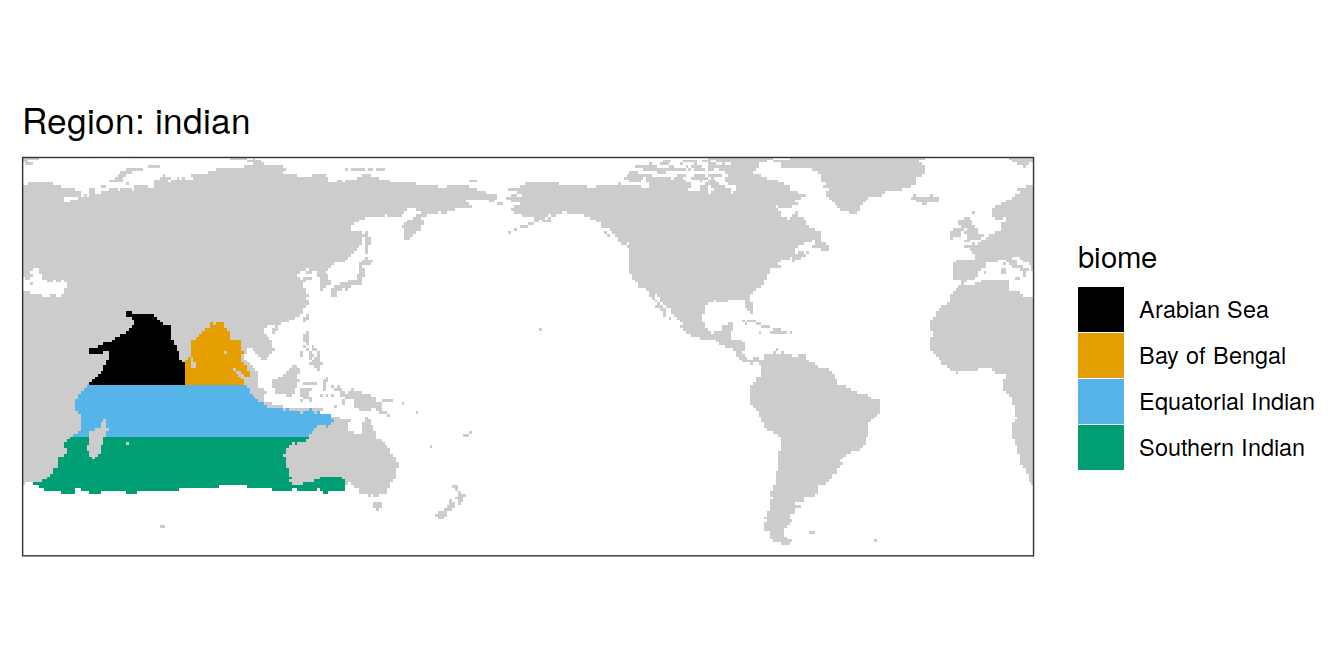
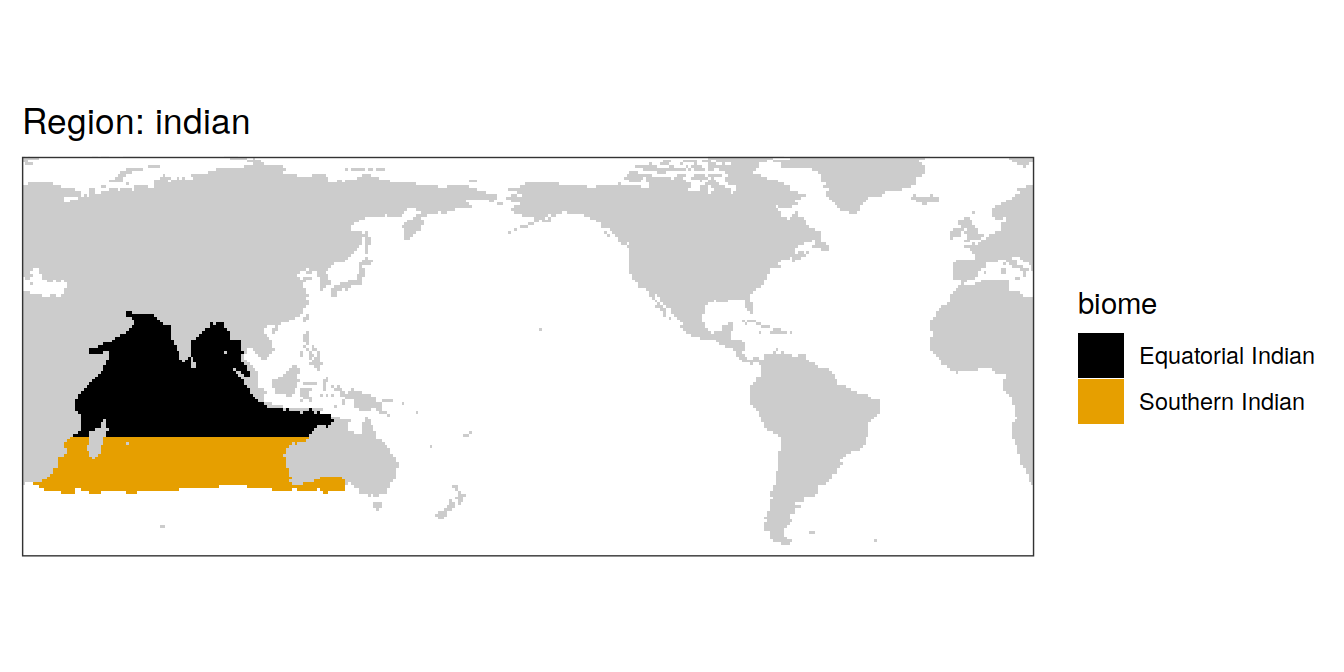
Build site.

Changed region(s): [[0.7812, 0.375, 0.9688, 0.7188], [0.0312, 0.4688, 0.25, 0.75]]

diff --git a/docs/biomes.html b/docs/biomes.html
@@ -606,15 +606,15 @@ project makes it easier to run your code on other machines.</p>
 <div class="panel panel-default">
 <div class="panel-heading">
 <p class="panel-title">
-<a data-toggle="collapse" data-parent="#workflowr-checks" href="#strongRepositoryversionstrongahrefhttpsgithubcomjensdanielmuellerheatwaveco2flux2023tree5e09f1b24265060dec6d1e85e67f43f819437b22targetblank5e09f1ba">
+<a data-toggle="collapse" data-parent="#workflowr-checks" href="#strongRepositoryversionstrongahrefhttpsgithubcomjensdanielmuellerheatwaveco2flux2023treee62af3345fa0dcd8abaaeb857680d592d39edc41targetblanke62af33a">
 <span class="glyphicon glyphicon-ok text-success"
 aria-hidden="true"></span> <strong>Repository version:</strong>
-<a href="https://github.com/jens-daniel-mueller/heatwave_co2_flux_2023/tree/5e09f1b24265060dec6d1e85e67f43f819437b22" target="_blank">5e09f1b</a>
+<a href="https://github.com/jens-daniel-mueller/heatwave_co2_flux_2023/tree/e62af3345fa0dcd8abaaeb857680d592d39edc41" target="_blank">e62af33</a>
 </a>
 </p>
 </div>
 <div
[2 lines of base64/hex data omitted]
 class="panel-collapse collapse">
 <div class="panel-body">
 <p>
@@ -624,7 +624,7 @@ reproducibility.
 </p>
 <p>
 The results in this page were generated with repository version
-<a href="https://github.com/jens-daniel-mueller/heatwave_co2_flux_2023/tree/5e09f1b24265060dec6d1e85e67f43f819437b22" target="_blank">5e09f1b</a>.
+<a href="https://github.com/jens-daniel-mueller/heatwave_co2_flux_2023/tree/e62af3345fa0dcd8abaaeb857680d592d39edc41" target="_blank">e62af33</a>.
 See the <em>Past versions</em> tab to see a history of the changes made
 to the R Markdown and HTML files.
 </p>
@@ -694,6 +694,40 @@ Message
 </tr>
 </thead>
 <tbody>
+<tr>
+<td>
+Rmd
+</td>
+<td>
+<a href="https://github.com/jens-daniel-mueller/heatwave_co2_flux_2023/blob/e62af3345fa0dcd8abaaeb857680d592d39edc41/analysis/biomes.Rmd" target="_blank">e62af33</a>
+</td>
+<td>
+jens-daniel-mueller
+</td>
+<td>
+2024-06-25
+</td>
+<td>
+Equatorial Indian biomes joined
+</td>
+</tr>
+<tr>
+<td>
+html
+</td>
+<td>
+<a href="https://rawcdn.githack.com/jens-daniel-mueller/heatwave_co2_flux_2023/8220f809227a4121f4487b72fb2118620a060d0a/docs/biomes.html" target="_blank">8220f80</a>
+</td>
+<td>
+jens-daniel-mueller
+</td>
+<td>
+2024-06-25
+</td>
+<td>
+Build site.
+</td>
+</tr>
 <tr>
 <td>
 Rmd
@@ -1566,8 +1600,10 @@ biome_mask &lt;- biome_mask  %&gt;%
     biome == &quot;pacific_4&quot; ~ &quot;PEQU-W&quot;,
     biome == &quot;pacific_5&quot; ~ &quot;PEQU-E&quot;,
     biome == &quot;pacific_6&quot; ~ &quot;SP-STPS&quot;,
-    biome == &quot;indian_1&quot; ~ &quot;Arabian Sea&quot;,
-    biome == &quot;indian_2&quot; ~ &quot;Bay of Bengal&quot;,
+    # biome == &quot;indian_1&quot; ~ &quot;Arabian Sea&quot;,
+    # biome == &quot;indian_2&quot; ~ &quot;Bay of Bengal&quot;,
+    biome == &quot;indian_1&quot; ~ &quot;Equatorial Indian&quot;,
+    biome == &quot;indian_2&quot; ~ &quot;Equatorial Indian&quot;,
     biome == &quot;indian_3&quot; ~ &quot;Equatorial Indian&quot;,
     biome == &quot;indian_4&quot; ~ &quot;Southern Indian&quot;,
     # biome == &quot;arctic_1&quot; ~ &quot;ARCTIC-ICE&quot;,
@@ -2004,6 +2040,17 @@ Date
 </tr>
 </thead>
 <tbody>
+<tr>
+<td>
+<a href="https://github.com/jens-daniel-mueller/heatwave_co2_flux_2023/blob/8220f809227a4121f4487b72fb2118620a060d0a/docs/figure/biomes.Rmd/all_biomes-3.png" target="_blank">8220f80</a>
+</td>
+<td>
+jens-daniel-mueller
+</td>
+<td>
+2024-06-25
+</td>
+</tr>
 <tr>
 <td>
 <a href="https://github.com/jens-daniel-mueller/heatwave_co2_flux_2023/blob/a60be97a5c5f5a9f41037c4e37fc422c3134fa2b/docs/figure/biomes.Rmd/all_biomes-3.png" target="_blank">a60be97</a>
